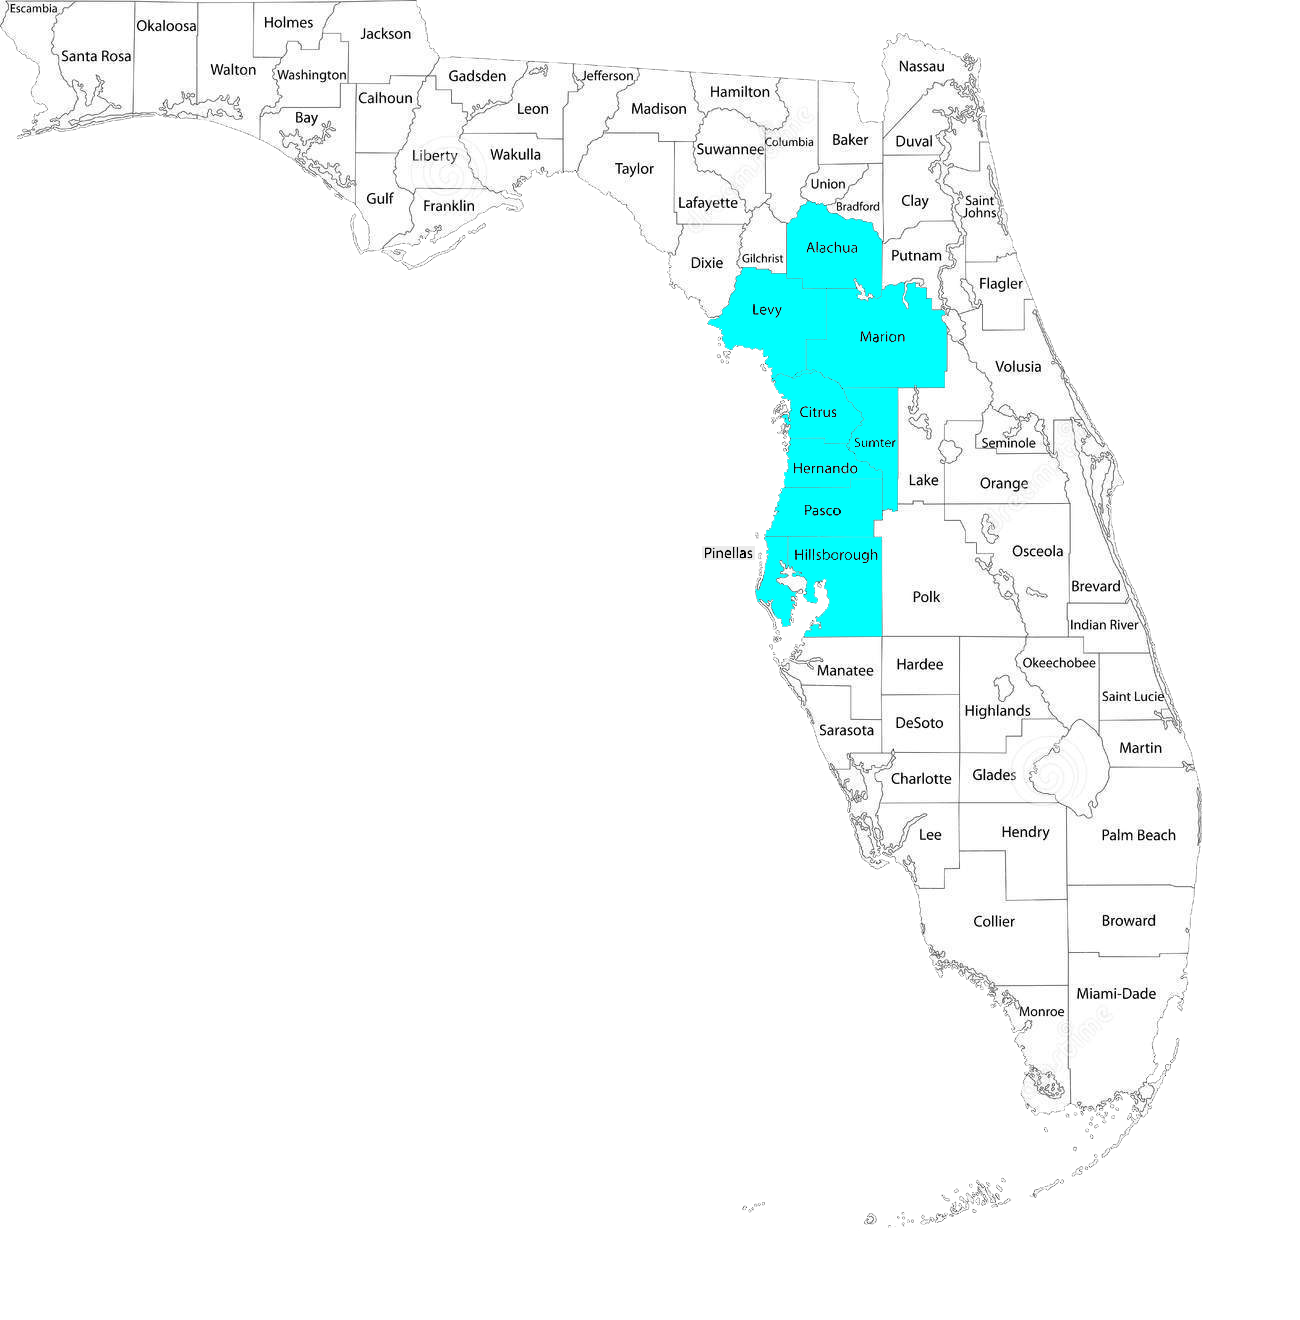
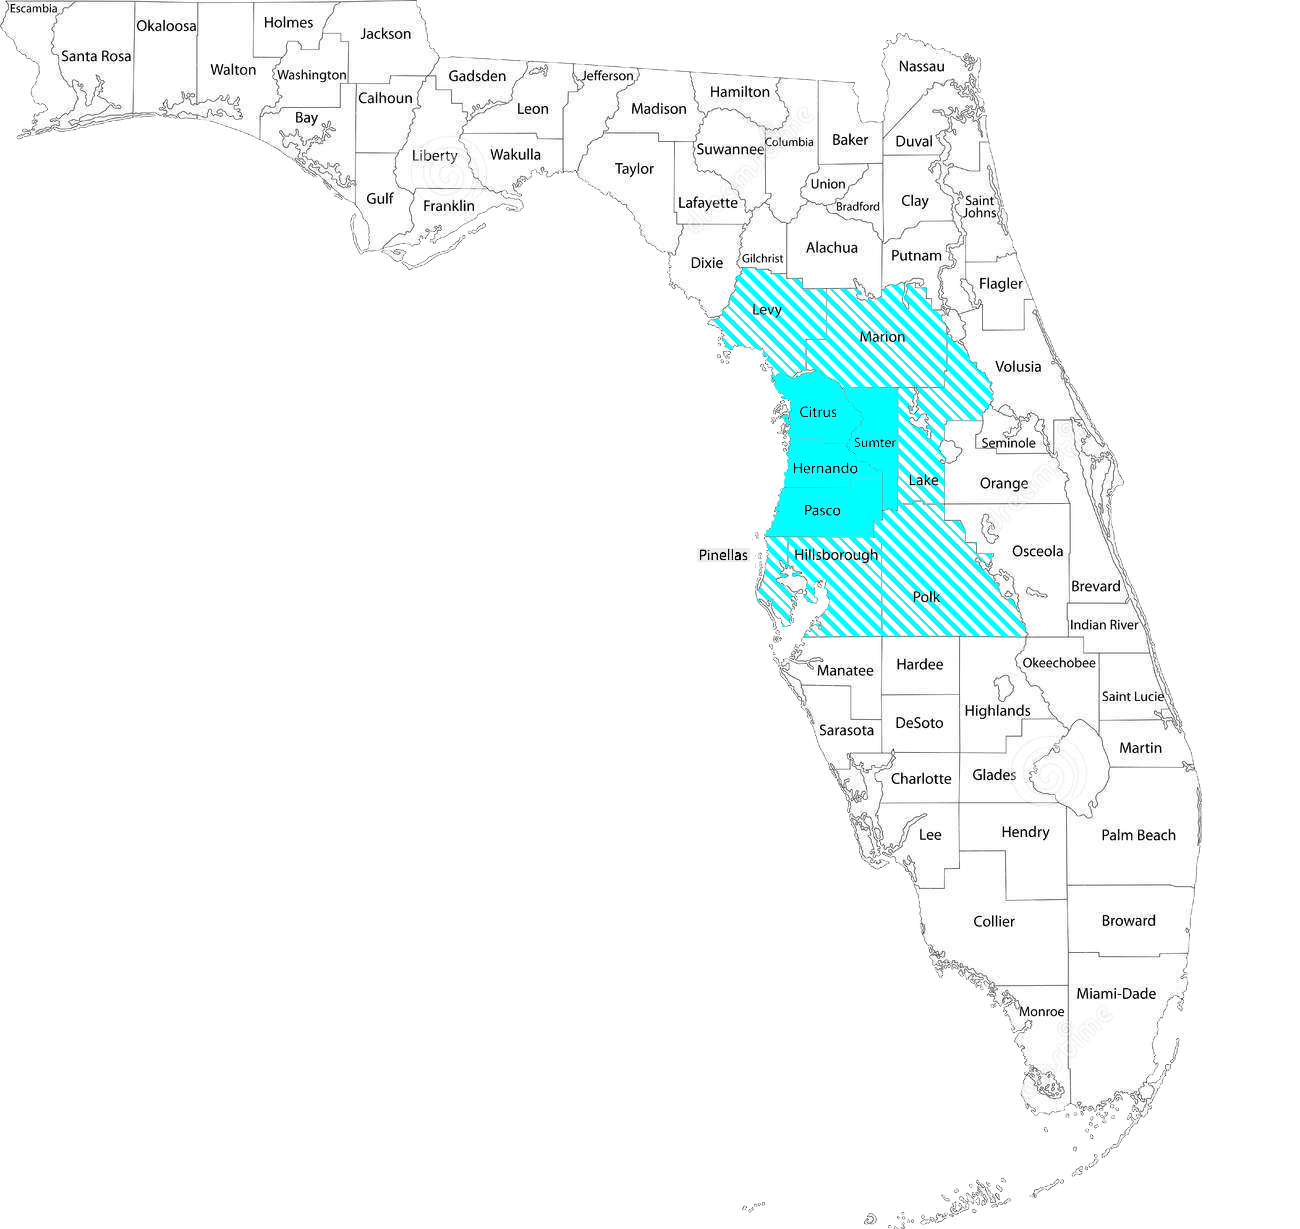
Updated Words and Map
changed wording, updated map with better graphics

diff --git a/index.html b/index.html
@@ -91,7 +91,7 @@
         <div class="row">
             <div class="col-lg-8 col-lg-offset-2">
                 <h2>About Us</h2>
-                <p>On The Fly Pest Control is a family owned and operated pest control company servicing counties as north as Alachua and as south as Hillsborough. With Robert E. "Butch" Bryant as the CPO we have over 25 years of experience killing and removing bugs from homes all across central Florida! </p>
+                <p>On The Fly Pest Control is a family owned and operated pest control company servicing counties as north as Levy and as south as Hillsborough. With Robert E. "Butch" Bryant as the CPO we have over 25 years of experience killing and removing bugs and pests from homes and businesses all across central Florida! </p>
                 <p></p>
                 <p></p>
             </div>
@@ -116,7 +116,7 @@
         <div class="row">
             <div class="col-lg-8 col-lg-offset-2">
                 <h2>Contact On The Fly Pest Control</h2>
-                <p>Feel free to email us to provide some feedback or to simply ask pest control related questions! <br> <a href="mailto:ontheflypestcontrol@gmail.com">ontheflypestcontrol@gmail.com</a></p>
+                <p>Use the following Email to provide feedback or to simply ask pest control related questions! <br> <a href="mailto:ontheflypestcontrol@gmail.com">ontheflypestcontrol@gmail.com</a></p>
                 <p>Call or Text 24/7, we are always ready because we are always On The Fly!
                 <h2>(352)-428-2641</h2></p>
                 <ul class="list-inline banner-social-buttons">
@@ -136,7 +136,7 @@
         <div class="container text-center"> 
             <p>Currently servicing the following counties marked in blue, call or email for additional information.</p>
             <img style="max-width:100%;" src="img/Map.png">
-            <p>Website designed by Robert E. Bryant II</p>
+            <p>Call now for a free quote!</p>
         </div>
     </footer>
 
